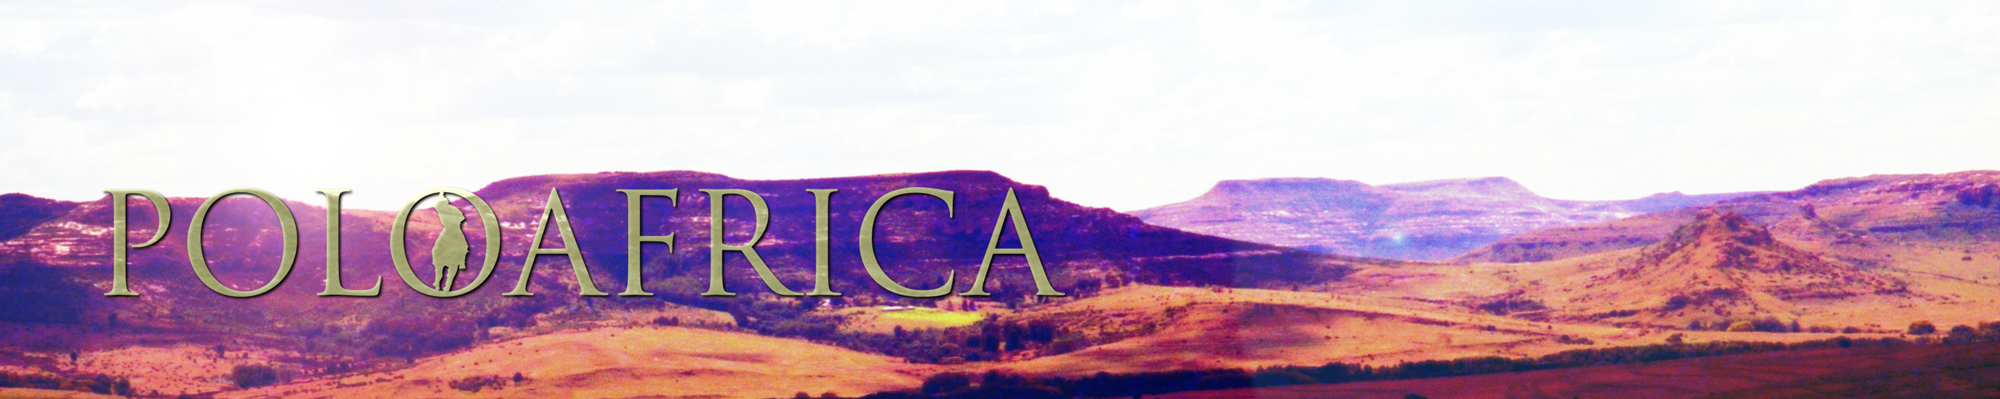
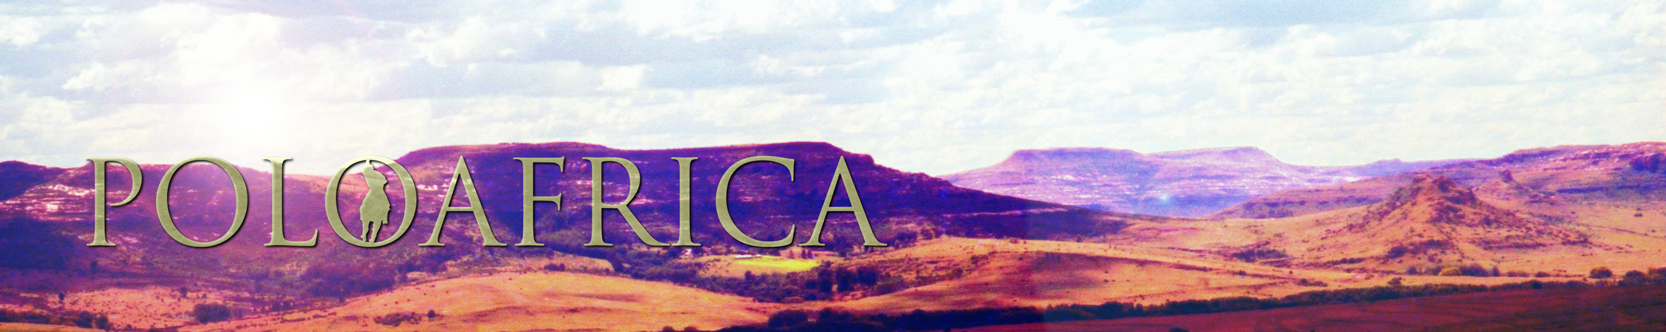
start fixing alt layout H2 etc..

diff --git a/css/layout.css b/css/layout.css
@@ -166,42 +166,40 @@ footer a:link {
 		max-width: 100%;
 		border: solid 1px red;
 	}
-	header h1 {
+	.flexwrap header h1 {
 		font-size: 2vw;
 	}
-	
-	header h1 {
-		margin: 0 0 0 4vw;
+    
+    header h1 {
+        margin: 0 0 0 4vw;
 		padding: 0% 0 7vw 0;
 	}
     
      .no-flexwrap header h1 {
-		margin: 0 0 0 1rem;
-		padding: 0% 0 3.1rem 0;
+         font-size: 1rem;
+         margin: 0 0 0 1rem;
+         padding: 0% 0 3.1rem 0;
 	}
     
     header h1, h2 span {
 		width: 44vw;
 	}
-    .no-flexwrap h2 span, .no-flexwrap header h1 {
+    .no-flexwrap header h1, .no-flexwrap h2 span {
 		width: 17.7rem;
 	}
    
 	h2 {
 		position: relative;
 		font-size: 4vw;
-		font-size: 1.9rem;
         line-height: 1.4;
-	}
-	
-	h2 {
-		margin: -7vw 0 0 0em;
+        margin: -7vw 0 0 0em;
         margin: -2.73rem 0 0em 0em;
 		padding: 0 0 0 4vw;
 	}
-    
+	
     .no-flexwrap h2 {
-		margin: -3.2rem 0 0 0em;
+        font-size: 1.9rem;
+        margin: -3.2rem 0 0 0em;
 		padding: .5rem 0 0 1rem;
 	}
     
@@ -311,18 +309,13 @@ footer a:link {
 	}
 }
 @media only screen and (max-width: 568px) {
-
-	h2 span, header h1 {
-		width: 44vw;
-	}
-    .no-flexwrap h2 span, .no-flexwrap header h1 {
-		width: 13rem;
-	}
     
-	h2 {
+	.no-flexwrap h2 {
         font-size: 1.8em;
         font-size: 1.6rem;
+        margin: -2.8rem 0 0 0em;
 	}
+
 	header h1 {
 		padding: 0 0 8.5vw 0;
 	}
@@ -332,13 +325,6 @@ footer a:link {
 	}
 	h2 {
 		margin: -9vw 0 0 0em;
-        margin: -2.8rem 0 0 0em;
-	}
-    
-    .no-flexwrap h2 {
-		margin: -2.8rem 0 0 0em;
-	}
-	label, .js h3 {
 	}
 }
 @media only screen and (max-width: 440px) {
@@ -346,7 +332,7 @@ footer a:link {
 	header h1, h2 span {
 		width: 59vw;
 	}
-       .no-flexwrap h2 span, .no-flexwrap header h1 {
+    .no-flexwrap h2 span, .no-flexwrap header h1 {
 		width: 12rem;
 	}    
  
@@ -358,7 +344,7 @@ footer a:link {
 		top: 3rem;
 	}
     
-    h2 {
+    .no-flexwrap h2 {
         font-size: 1.55em;
         font-size: 1.35rem;
 	}

diff --git a/css/home.css b/css/home.css
@@ -59,47 +59,31 @@
 }
 
   @media only screen and (max-width: 540px) {
-  		article:last-child h3, article:last-child label {
+  		article:last-child h3, article label {
   		line-height: 1;
   	}
   }
 
  @media only screen and (max-width: 410px) {
-  		article:first-child h3, article:first-child label {
+  		article h3, article:first-child label {
   		line-height: 1;
   	}
   }
-/*
+
 
  @media only screen and (max-width: 540px) {
-  	body {
-  		background-color: orchid;
-  	}
-  	h2 span {
-  		width: 44vw;
-  	}
-  	h2 {
-  		padding: 0.3rem 0 0 .5rem;
-  	}
+
   	article:last-child h3, article:last-child label {
   		line-height: 1.2;
   	}
-  }
-  @media only screen and (max-width: 480px) {
-  	body {
-  		background-color: darkseagreen;
-  	}
-  	
-  }
+}
   @media screen and (max-width: 400px) {
   	article:first-child h3, article:first-child label {
   		line-height: 1.2;
   	}
   }
   @media only screen and (max-width: 360px) {
-  	body {
-  		background-color: olive;
-  	}
+
   	h2 span {
   		width: 61vw;
   	}

diff --git a/css/content.css b/css/content.css
@@ -56,11 +56,11 @@ p:first-of-type {
 h2 {
 	margin: .8em 0 0 0;
 	background: url(../images/sub-polo-in-africa.png) no-repeat 0% 50%;
-    background-size: cover;
+    background-size: contain;
     font: normal 2.8em/normal  Georgia, serif;
 	color: #cc6;
 	text-transform: uppercase;
-    padding: .05em 0 0.2em 3em;
+    padding: .15em 0 0.2em 3em;
     text-shadow: 1px 1px 2px black;
 }
 

diff --git a/index.html b/index.html
@@ -28,7 +28,7 @@
 	<div id="wrap">
 	<header>
             <a href=".">
-			<h1>POLOAFRICA<img src="images/logo_alt_only.png"></h1></a>
+			<h1>POLOAFRICA<img src="images/logo_alt.png"></h1></a>
 			<nav id="main_nav">
                 <label class="menu" for="menu-toggle"></label>
                 <input id="menu-toggle" type="checkbox">
